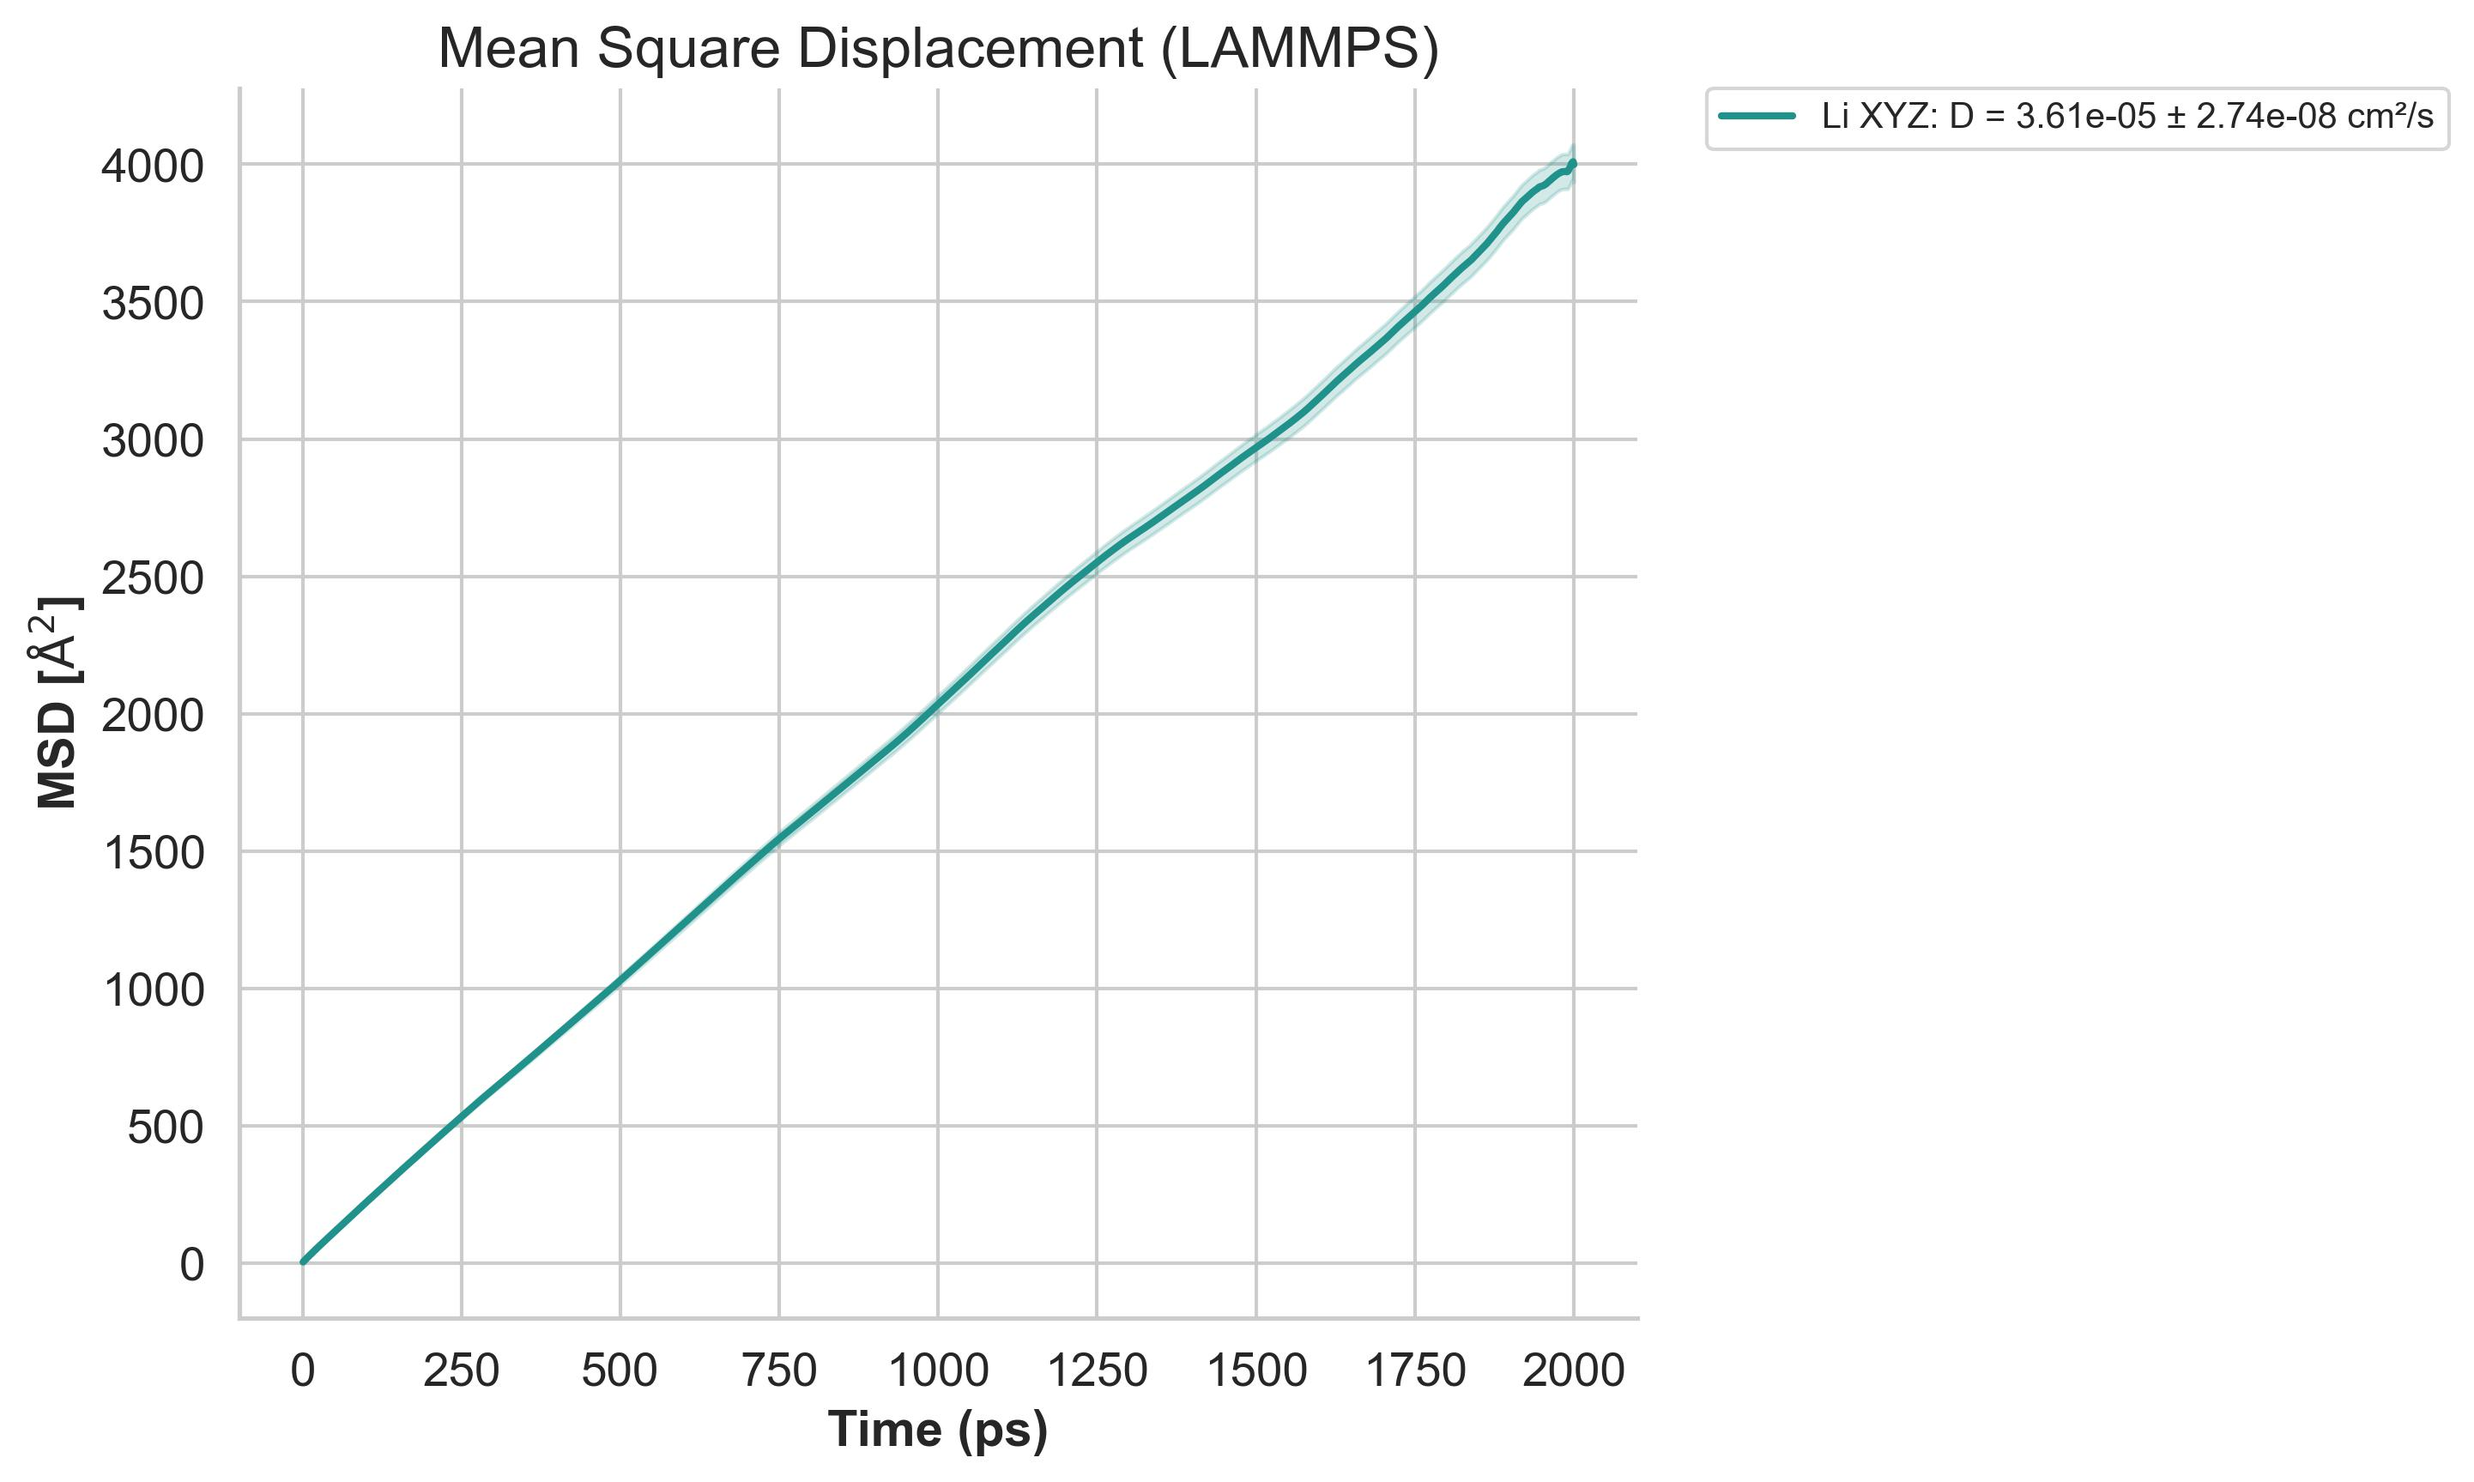
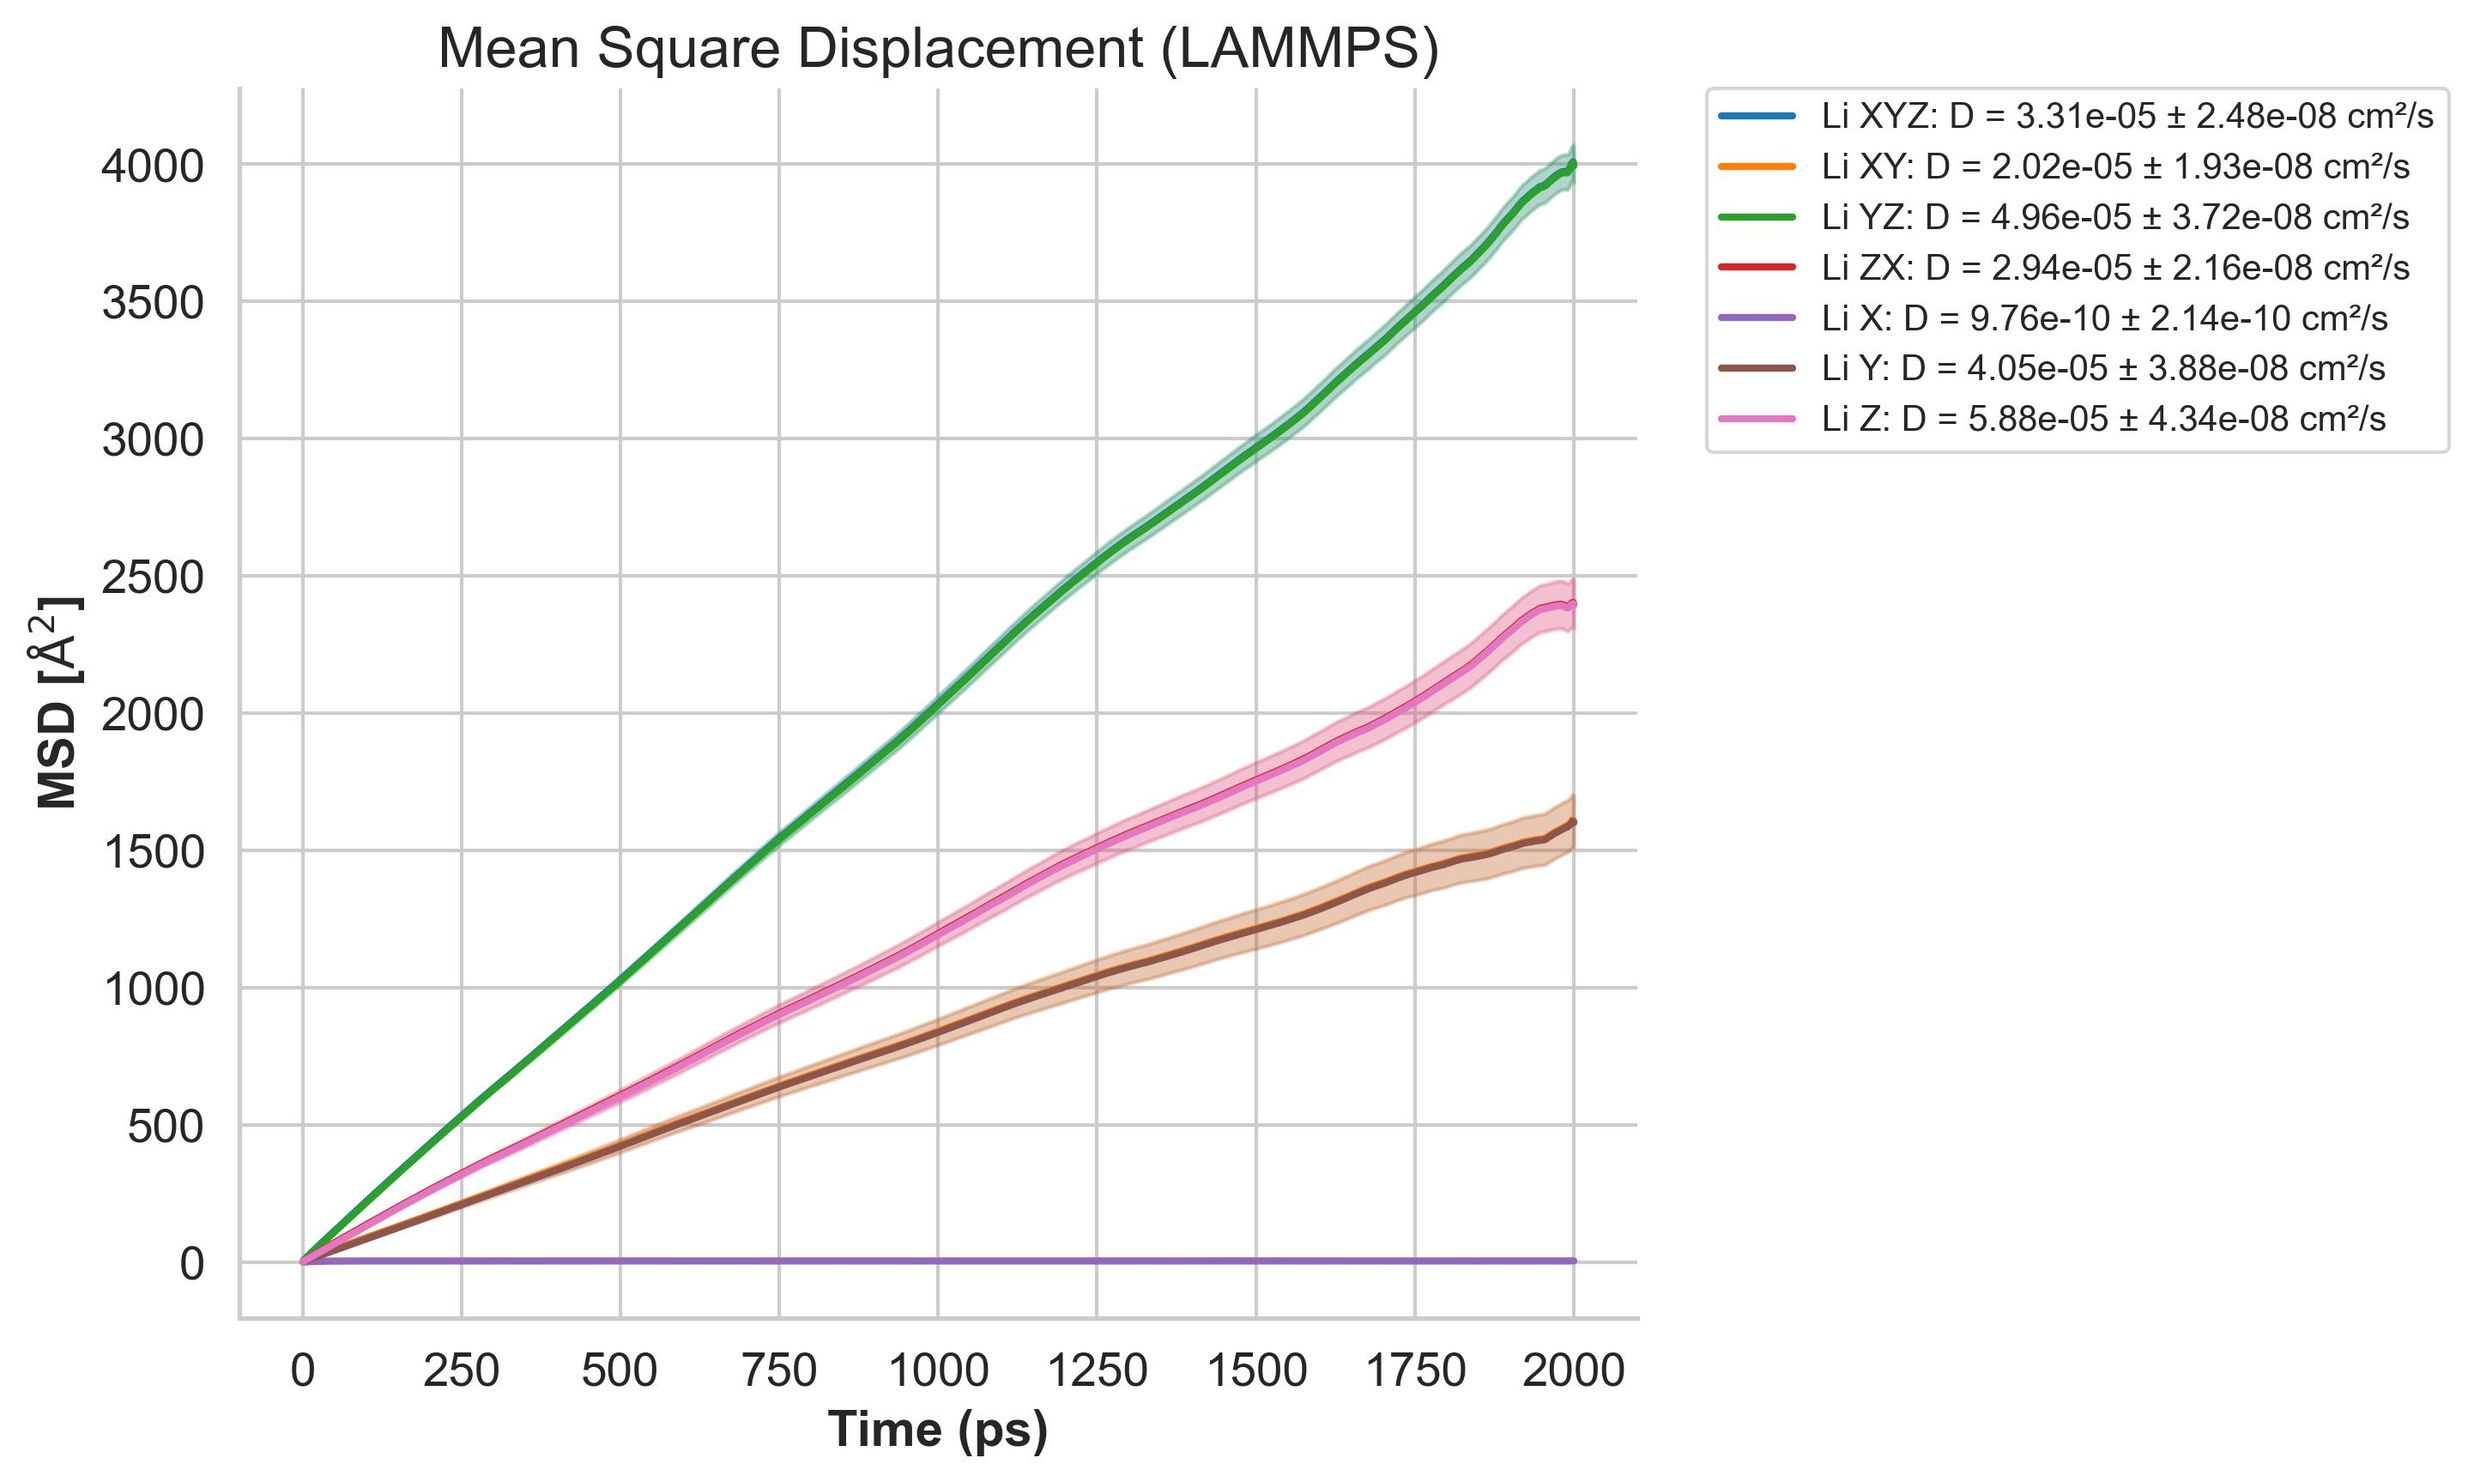
Updated examples

diff --git a/examples/VAF/compute_vaf.md b/examples/VAF/compute_vaf.md
@@ -1,35 +1,10 @@
 # Velocity Autocorrelation Function
-## Sample command line arugument for computing vaf for Li Al P S
+## Sample command line arugument for computing vaf.
 
 ### CL Argument: 
 ```sh
-CPDyAna vaf --data-dir . --element Li Al P S --t-start-fit-ps 5 --stepsize-t 1 --stepsize-tau 10 --t-end-fit-ps 100
+CPDyAna vaf --data-dir "./data" --element Li Al P S --t-start-fit-ps 5 --stepsize-t 1 --stepsize-tau 10 --t-end-fit-ps 100
 ```
-
-### Sample output
-```terminal
-Starting VAF analysis for elements: Li, Al, P, S
-Processing 1 file sets...
-Processing file set 1/1: LiAlPS
-Built 220747 frames with velocities.
-
-    ! Calculating VAF for atomic species Li in trajectory 0
-      Structure contains 22 atoms of type Li
-      I will calculate 4 block(s)
-Saving VAF plot to: ..\vaf_LiAlPS_Li_vaf_upto_100psframes.png
-
-    ! Calculating VAF for atomic species Al in trajectory 0
-      Structure contains 2 atoms of type Al
-      I will calculate 4 block(s)
-Saving VAF plot to: ..\vaf_LiAlPS_Al_vaf_upto_100psframes.png
-
-    ! Calculating VAF for atomic species P in trajectory 0
-      Structure contains 4 atoms of type P
-      I will calculate 4 block(s)
-Saving VAF plot to: ..\CPDyAnafork-master\vaf_LiAlPS_P_vaf_upto_100psframes.png
-
-    ! Calculating VAF for atomic species S in trajectory 0
-      Structure contains 24 atoms of type S
-      I will calculate 4 block(s)
-Saving VAF plot to: ..\CPDyAnafork-master\vaf_LiAlPS_S_vaf_upto_100psframes.png
+```sh
+CPDyAna vaf --data-dir "./data" --lammps-elements Li La Ti O --element-mapping 1:Li 2:La 3:Ti 4:O --lammps-timestep 1 --element Li --t-end-fit-ps 1000
 ```

diff --git a/examples/VDOS/compute_vdos.md b/examples/VDOS/compute_vdos.md
@@ -3,25 +3,8 @@
 
 ### CL Argument: 
 ```sh
-CPDyAna vdos --data-dir . --elements Li Al P S
+CPDyAna vdos --data-dir "./data" --elements Li Al P S
 ```
-
-### Sample output
-```terminal
-Starting VDOS analysis for elements: Li, Al, P, S
-Processing 1 file sets...
-Processing file set 1/1: LiAlPS
-Built 220747 frames with velocities.
-nblocks = 1, blocks.shape = (1, 220747, 2, 3), block_length_ps = 427169.72717
-nblocks = 1, blocks.shape = (1, 220747, 22, 3), block_length_ps = 427169.72717
-nblocks = 1, blocks.shape = (1, 220747, 4, 3), block_length_ps = 427169.72717
-nblocks = 1, blocks.shape = (1, 220747, 24, 3), block_length_ps = 427169.72717
-Saving VDOS plot to: D:\Internship\Summer Internship 2025\CPDyAnafork-master\CPDyAnafork-master\vdos_LiAlPS_1.png
-nblocks = 1, blocks.shape = (1, 220747, 2, 3), block_length_ps = 427169.72717
-nblocks = 1, blocks.shape = (1, 220747, 22, 3), block_length_ps = 427169.72717
-nblocks = 1, blocks.shape = (1, 220747, 4, 3), block_length_ps = 427169.72717
-nblocks = 1, blocks.shape = (1, 220747, 24, 3), block_length_ps = 427169.72717
-Saving custom VDOS plot to: D:\Internship\Summer Internship 2025\CPDyAnafork-master\CPDyAnafork-master\vdos_LiAlPS_2.png
-  → VDOS analysis completed with prefix: vdos_LiAlPS
-VDOS analysis completed.
+```sh
+CPDyAna vdos --data-dir "./data" --lammps-elements Ti La Li O --element-mapping 1:Li 2:La 3:Ti 4:O --lammps-timestep 1 --elements Li La Ti O  
 ```

diff --git a/examples/MSD/msd_tracer.md b/examples/MSD/msd_tracer.md
@@ -4,16 +4,8 @@
 ### CL Argument 
 
 ```sh
-CPDyAna msd --data-dir . -T 600 -e Li --diffusivity-direction-choices XYZ XY YZ ZX X Y Z --diffusivity-choices Tracer --initial-time 0 --final-time 300 --initial-slope-time 5 --final-slope-time 200 --block 500 --first-time 0 --last-time 300 
+CPDyAna msd --data-dir "./data" -T 600 -e Li --diffusivity-direction-choices XYZ XY YZ ZX X Y Z --diffusivity-choices Tracer --initial-time 0 --final-time 300 --initial-slope-time 5 --final-slope-time 200 --block 500 --first-time 0 --last-time 300 
 ```
-
-### Sample output
-```terminal
-Starting MSD analysis...                                                                                                                                                       
-Processing 1 file sets for 1 temperature(s)                                     
-Analyzing elements: Li
-
-Saving results to OUTPUT.json...
-Generating MSD plot with 7 data series...
-MSD plot saved to: MSD.jpg
+```sh
+CPDyAna msd --data-dir "./data" --lammps-elements Li La Ti O --element-mapping 1:Li 2:La 3:Ti 4:O --lammps-timestep 1 --initial-time 0 --final-time 2000 --initial-slope-time 300 --final-slope-time 1500 -T 600 --first-time 0 --last-time 2000 --diffusivity-choices Tracer --diffusivity-direction-choices XYZ XY YZ ZX X Y Z
 ```

diff --git a/examples/MSD/msd_charged.md b/examples/MSD/msd_charged.md
@@ -6,15 +6,6 @@
 ```sh
 CPDyAna msd --data-dir . -T 600 --diffusing-elements Li --diffusivity-choices Charged --initial-slope-time 5 --final-slope-time 15 --block 500 --initial-time 0 --final-time 20 --first-time 0 --last-time 20 --diffusivity-direction-choices XYZ XY YZ ZX X Y Z
 ```
-
-### Sample Output
-
-```terminal
-Starting MSD analysis...                                                                                                                                                       
-Processing 1 file sets for 1 temperature(s)
-Analyzing elements: Li
-
-Saving results to OUTPUT.json...
-Generating MSD plot with 7 data series...
-MSD plot saved to: MSD.jpg
+```sh
+CPDyAna msd --data-dir "./data" --lammps-elements Li La Ti O --element-mapping 1:Li 2:La 3:Ti 4:O --lammps-timestep 1 --initial-time 0 --final-time 2000 --initial-slope-time 300 --final-slope-time 1500 -T 600 --first-time 0 --last-time 2000 --diffusivity-choices Charged --diffusivity-direction-choices XYZ XY YZ ZX X Y Z
 ```

diff --git a/examples/Ionic Density/Li Ionic Density.md b/examples/Ionic Density/Li Ionic Density.md
@@ -4,23 +4,7 @@
 ### CL Argument
 
 ```sh
-CPDyAna ionic-density --data-dir . --element Li
+CPDyAna ionic-density --data-dir "./data" --element Li
 ```
 
-### Sample Output
 
-```terminal
-Starting ionic density analysis for element: Li
-Processing 1 file sets...
-Processing file set 1/1: LiAlPS
-Trajectory built: 220747 frames from 0 to 220746 (stride=1)
-Calculating probability density for Li (sigma=0.3, n_sigma=4.0, density=0.2)
-(get_gaussian_density) indices: [ 1  2  3  4  5  6  7  8  9 10 11 12 13 14 15 16 17 18 19 20 21 22]
-Grid dimensions 43 x 44 x 70
-Box dimensions  8.458552527390488 x 8.777313887263547 x 13.810488391722012
-xsf file:  LiAlPS_density.xsf
-(get_gaussian_density) We do not show these atoms in the xsf file: [ 1  2  3  4  5  6  7  8  9 10 11 12 13 14 15 16 17 18 19 20 21 22]
-==============================Density written to LiAlPS_density.xsf
-  → Density file created: LiAlPS_density.xsf
-Ionic density analysis completed. Generated 1 density files.
-```

diff --git a/examples/van Hove correlation/van_hove.md b/examples/van Hove correlation/van_hove.md
@@ -3,12 +3,8 @@
 
 ### CL Argument: 
 ```sh
-CPDyAna vh --data-dir . -T 600 -e Li --correlation Self Distinct --initial-time 0 --final-time 100                                                                             
+CPDyAna vh --data-dir "./data" -T 600 -e Li --correlation Self Distinct --initial-time 0 --final-time 100                                                                             
 ```
-
-### Sample output
-```terminal
-Saving results to OUTPUT.json...
-Generating Van Hove plot with 2 correlation functions...
-Van Hove plot saved to: van_hove_plot.png
+```sh
+CPDyAna vh --data-dir "./data" --lammps-elements Li La Ti O --element-mapping 1:Li 2:La 3:Ti 4:O --lammps-timestep 1 --export-verification -T 800 --initial-time 1 --final-time 10 --step-skip 1 --ngrid 10001 --sigma 0.01
 ```

diff --git a/examples/RDF/compute_rdf.md b/examples/RDF/compute_rdf.md
@@ -5,13 +5,6 @@
 ```sh
 CPDyAna rdf --data-dir . xlim 0 10
 ```
-
-### Sample output
-```terminal
-Starting RDF analysis...
-Central atoms: Li, Al, P, S
-Processing 1 file sets...
-Processing file set 1/1: LiAlPS
-  → RDF plots created with prefix: rdf_plot_LiAlPS
-RDF analysis completed for 1 file sets.
+```sh
+CPDyAna rdf --data-dir "./data" --lammps-elements Ti La Li O --element-mapping 1:Li 2:La 3:Ti 4:O --lammps-timestep 1 --central-atom Li La Ti O --pair-atoms Li La Ti O
 ```

diff --git a/examples/NGP/compute_ngp.md b/examples/NGP/compute_ngp.md
@@ -1,0 +1,10 @@
+# Non-Gaussian Parameter
+## Sample command line argument example for NGP
+
+## CL Argument
+```sh
+CPDyAna ngp --data-dir "./data" --lammps-elements Li La Ti O --element-mapping 1:Li 2:La 3:Ti 4:O --lammps-timestep 1 --initial-time 0 --final-time 2000 --step-skip 1 -T 600 --first-time 0 --last-time 2000  
+```
+```sh
+CPDyAna ngp --data-dir "./data" --element Li --initial-time 0 --final-time 200 --step-skip 1 -T 600 --first-time 0 --last-time 200 
+```
